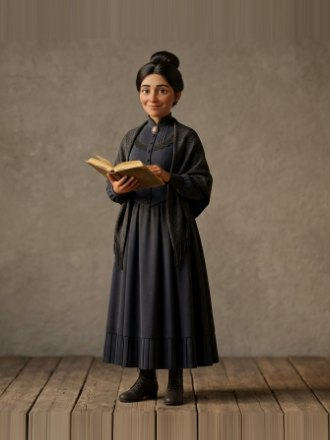
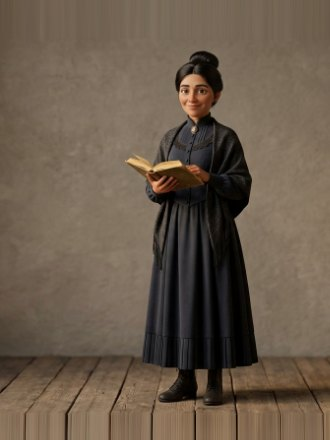
juego-12 Tema 3: centrar por la cabeza, no por la silueta
La silueta incluye lo que la persona lleva al lado (la mesita de la
oficinista, el saco del portuario, el vuelo de una falda), asi que el
numero decia "centrada" con el cuerpo pegado a un borde. Ahora el
encuadre se corrige midiendo la cabeza, que siempre esta sobre el eje
del cuerpo. Once de doce quedan con 3 px de desvio o menos.

diff --git a/juegos/juego-12/.planning/optimizar-j6t3.js b/juegos/juego-12/.planning/optimizar-j6t3.js
@@ -167,14 +167,22 @@ const ANCHO = 330, ALTO = 440, CALIDAD = 0.86;
         const rr = [], gg = [], bb = [];
         for (let y = 2; y < Math.round(ALTO * 0.07); y++) for (const x of [3, 5, 7, ANCHO - 8, ANCHO - 6, ANCHO - 4]) { const a2 = po(x, y); rr.push(a2[0]); gg.push(a2[1]); bb.push(a2[2]); }
         const fr = mediana(rr), fg = mediana(gg), fb = mediana(bb);
-        let a0 = ANCHO, a1 = -1;
-        for (let y = Math.round(ALTO * 0.08); y < Math.round(ALTO * 0.55); y++) {
-          for (let x = 3; x < ANCHO - 3; x++) {
-            const a2 = po(x, y);
-            if (Math.abs(a2[0] - fr) + Math.abs(a2[1] - fg) + Math.abs(a2[2] - fb) > 70) { if (x < a0) a0 = x; if (x > a1) a1 = x; }
-          }
+        const marca = (x, y) => { const a2 = po(x, y); return Math.abs(a2[0] - fr) + Math.abs(a2[1] - fg) + Math.abs(a2[2] - fb) > 70; };
+        // ⚠ Se mide LA CABEZA, no la silueta entera: lo que la persona lleva al lado (la
+        // mesita de la oficinista, el saco del portuario, el vuelo de una falda) entra en
+        // la silueta y corre el centro, así que el número decía "centrada" con el cuerpo
+        // pegado a un borde. La cabeza siempre está sobre el eje del cuerpo.
+        let yTop = -1;
+        for (let y = 2; y < Math.round(ALTO * 0.5) && yTop < 0; y++) {
+          let n = 0;
+          for (let x = 4; x < ANCHO - 4; x++) if (marca(x, y)) n++;
+          if (n >= 3) yTop = y;
         }
-        return a1 >= a0 ? (a0 + a1) / 2 : ANCHO / 2;
+        if (yTop < 0) return ANCHO / 2;
+        const yFin = Math.min(ALTO - 2, yTop + Math.round(ALTO * 0.14));
+        let suma = 0, peso = 0;
+        for (let y = yTop; y < yFin; y++) for (let x = 3; x < ANCHO - 3; x++) if (marca(x, y)) { suma += x; peso++; }
+        return peso ? suma / peso : ANCHO / 2;
       };
       let desvio = 0;
       for (let paso = 0; paso < 3; paso++) {

diff --git a/juegos/juego-12/.planning/centros-j6t3.js b/juegos/juego-12/.planning/centros-j6t3.js
@@ -27,14 +27,20 @@ const TOLERANCIA = 12;   // píxeles sobre 330 de ancho
       const rr = [], gg = [], bb = [];
       for (let y = 2; y < Math.round(H * 0.07); y++) for (const x of [3, 5, 7, W - 8, W - 6, W - 4]) { const a = px(x, y); rr.push(a[0]); gg.push(a[1]); bb.push(a[2]); }
       const fr = med(rr), fg = med(gg), fb = med(bb);
-      let x0 = W, x1 = -1;
-      for (let y = Math.round(H * 0.08); y < Math.round(H * 0.55); y++) {
-        for (let x = 3; x < W - 3; x++) {
-          const a = px(x, y);
-          if (Math.abs(a[0] - fr) + Math.abs(a[1] - fg) + Math.abs(a[2] - fb) > 70) { if (x < x0) x0 = x; if (x > x1) x1 = x; }
-        }
+      const marca = (x, y) => { const a = px(x, y); return Math.abs(a[0] - fr) + Math.abs(a[1] - fg) + Math.abs(a[2] - fb) > 70; };
+      // ⚠ Se mide LA CABEZA: la silueta entera incluye la mesita, el saco o el vuelo de
+      // una falda, y eso corre el centro. Mirando las imágenes se veía que el número
+      // decía "centrada" con la persona pegada a un lado.
+      let yTop = -1;
+      for (let y = 2; y < Math.round(H * 0.5) && yTop < 0; y++) {
+        let n = 0;
+        for (let x = 4; x < W - 4; x++) if (marca(x, y)) n++;
+        if (n >= 3) yTop = y;
       }
-      return { centro: x1 >= x0 ? Math.round((x0 + x1) / 2) : Math.round(W / 2), medio: Math.round(W / 2) };
+      const yFin = Math.min(H - 2, (yTop < 0 ? 0 : yTop) + Math.round(H * 0.14));
+      let suma = 0, peso = 0;
+      for (let y = Math.max(0, yTop); y < yFin; y++) for (let x = 3; x < W - 3; x++) if (marca(x, y)) { suma += x; peso++; }
+      return { centro: peso ? Math.round(suma / peso) : Math.round(W / 2), medio: Math.round(W / 2) };
     }, url);
     const desvio = r.centro - r.medio;
     if (Math.abs(desvio) > TOLERANCIA) malas.push(f + " (" + (desvio > 0 ? "+" : "") + desvio + " px)");

diff --git a/juegos/juego-12/CLAUDE.md b/juegos/juego-12/CLAUDE.md
@@ -726,7 +726,13 @@ figura pequeña y descentrada; `.planning/optimizar-j6t3.js` las deja en **330×
 - ⚠ **El centrado se MIDE y se CORRIGE**: dibuja, mide la silueta en el resultado y
   reencuadra, hasta tres veces. Centrar por el torso falla porque un libro o un saco en la
   mano corren el centro de masa. Lo comprueba `.planning/centros-j6t3.js` (las doce con
-  8 px de desvío o menos sobre 330).
+  3 px de desvío o menos sobre 330, salvo la maestra con 11).
+- ⚠ **Se mide LA CABEZA, no la silueta entera.** Lo que la persona lleva al lado —la
+  mesita de la oficinista, el saco del portuario, el vuelo de una falda— entra en la
+  silueta y corre el centro: el número decía "centrada" con el cuerpo pegado a un borde,
+  y la autora lo vio a ojo. La cabeza siempre está sobre el eje del cuerpo.
+- 📌 **Para juzgarlo, hoja de contacto con una línea roja en el centro de cada recuadro**:
+  doce números no dicen lo que doce imágenes en fila.
 - 4,9 MB → ~230 KB en total. Los originales se respaldan fuera del repo (el script nunca
   pisa un respaldo existente).
 
